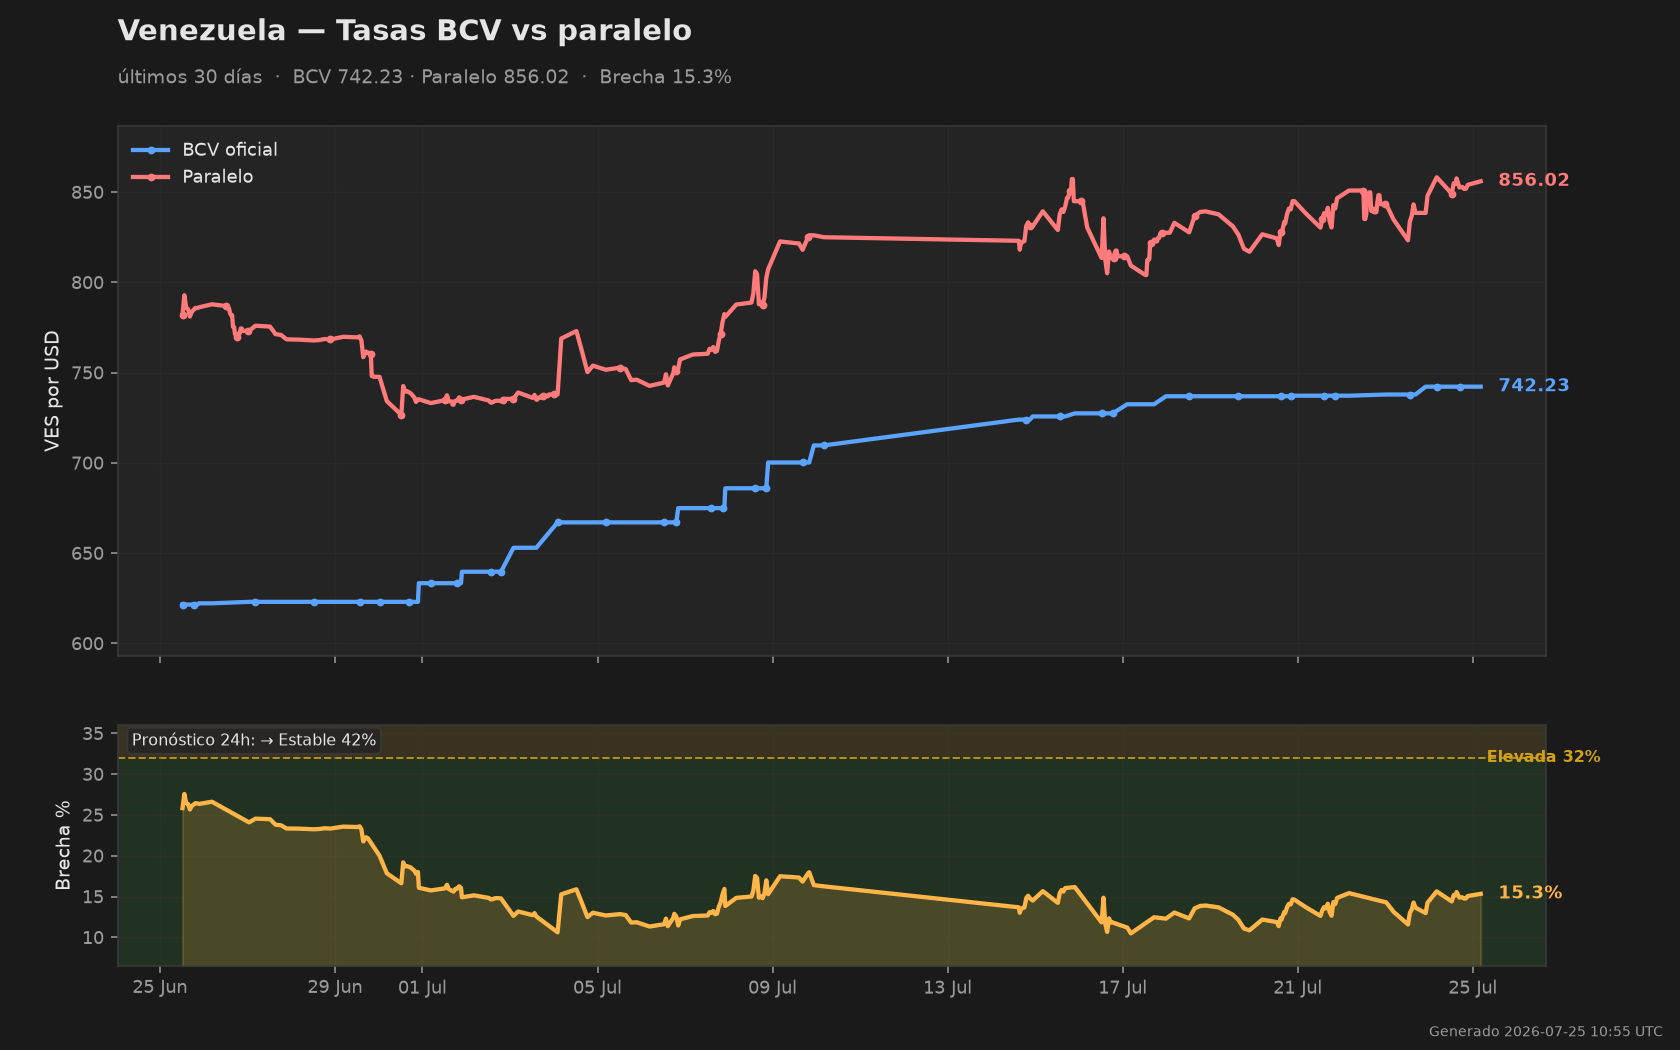
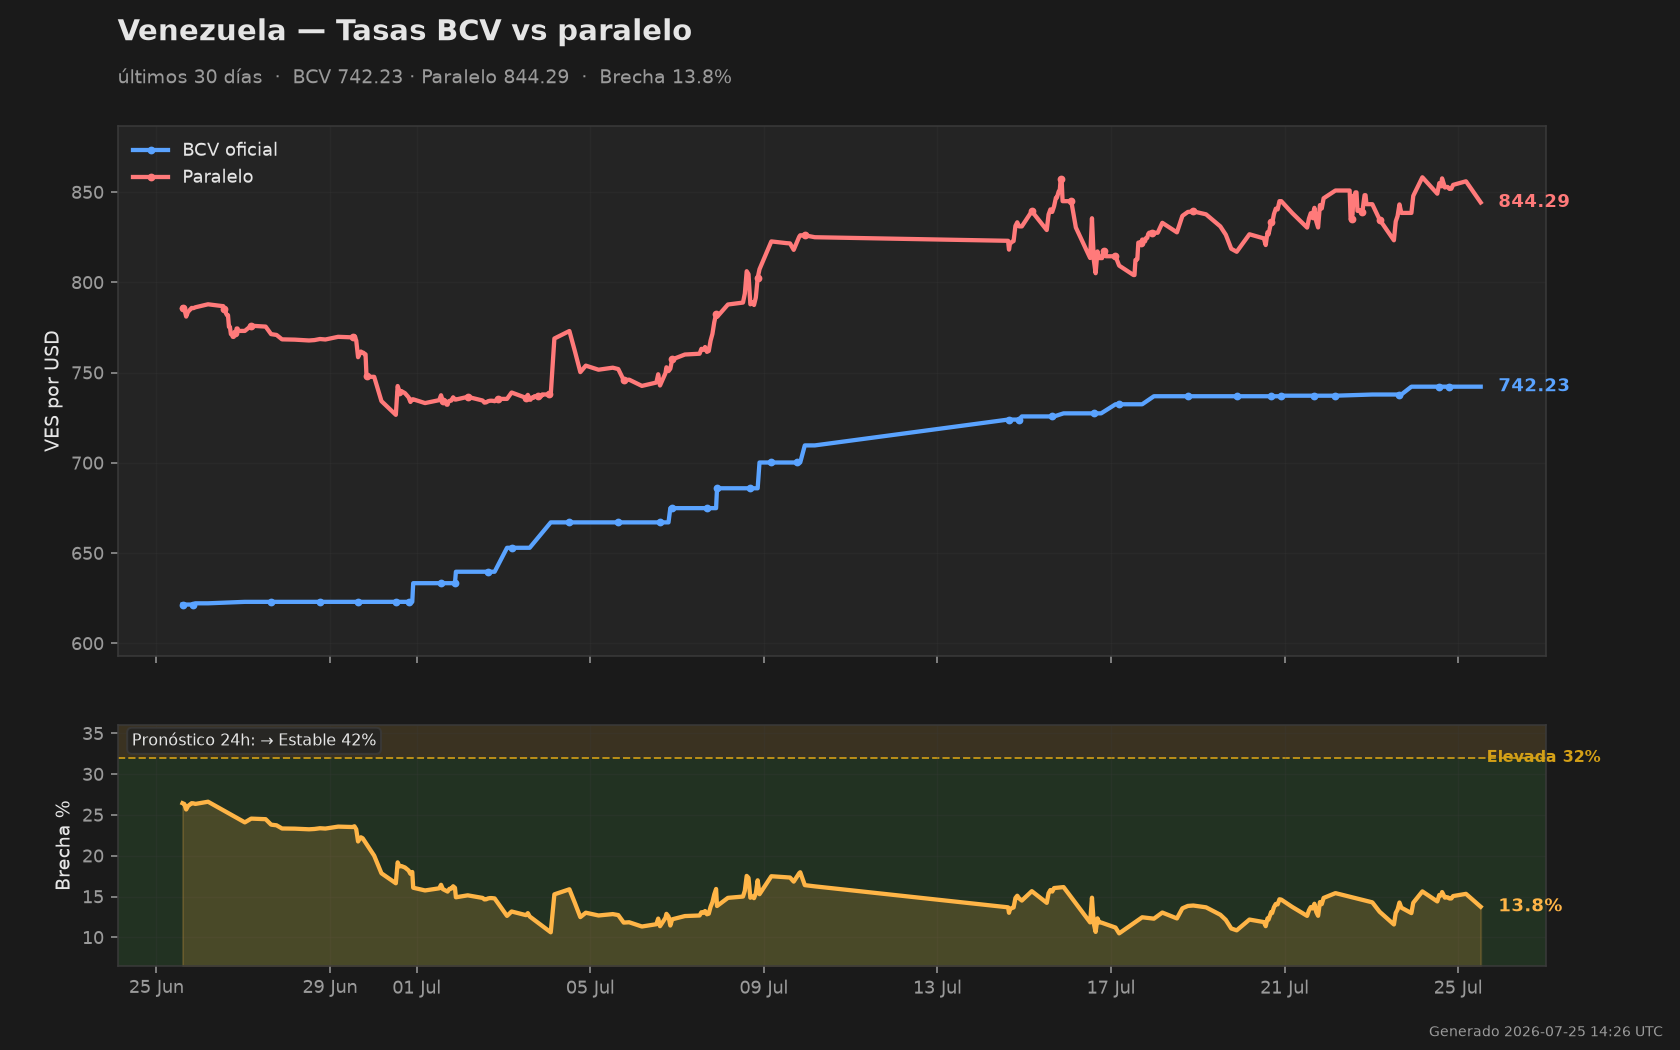
Dashboard update 2026-07-25 14:26 UTC

diff --git a/README.md b/README.md
@@ -11,11 +11,11 @@
 | Metric · Métrica | Value · Valor |
 |---|---|
 | BCV Oficial | **742.23** VES/USD |
-| Paralelo | **856.02** VES/USD |
-| Brecha · Spread | **15.3%** |
-| Binance P2P USDT/VES | **875.05** VES/USDT (+2.2% vs paralelo) |
+| Paralelo | **844.29** VES/USD |
+| Brecha · Spread | **13.8%** |
+| Binance P2P USDT/VES | **873.68** VES/USDT (+3.5% vs paralelo) |
 | **Pronóstico 24h · 24h Forecast** | **↑ Ensanchando · Widening (40%)** |
-| Actualizado · Updated | 2026-07-25 04:17 UTC |
+| Actualizado · Updated | 2026-07-25 12:25 UTC |
 
 ![Venezuela BCV vs parallel rate — last 30 days](data/chart.png)
 
@@ -29,8 +29,8 @@ Cada día compiten dos modelos sobre el mismo pronóstico: una **línea base** (
 
 | Model · Modelo | Brier ↓ | vs Baseline | Forecasts Scored · Evaluados |
 |---|---|---|---|
-| naive (baseline) | 0.702 ± 0.061 | — | 66 |
-| stat | 0.679 ± 0.050 | −0.023 ≈ | 66 |
+| naive (baseline) | 0.705 ± 0.060 | — | 67 |
+| stat | 0.682 ± 0.050 | −0.023 ≈ | 67 |
 
 *Accumulating live data since May 2026 · Acumulando datos en vivo desde mayo 2026*
 
